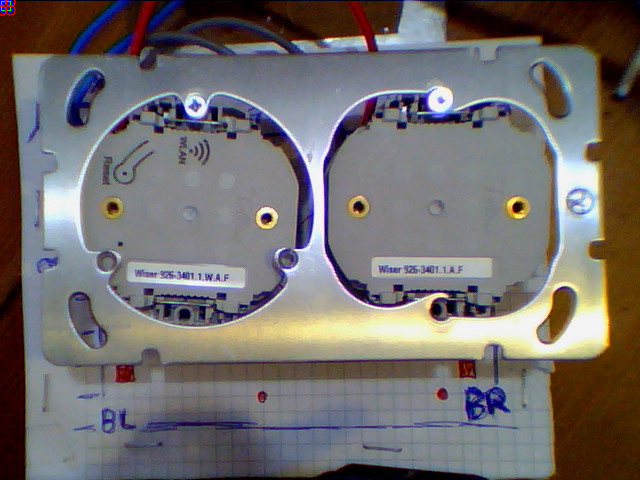
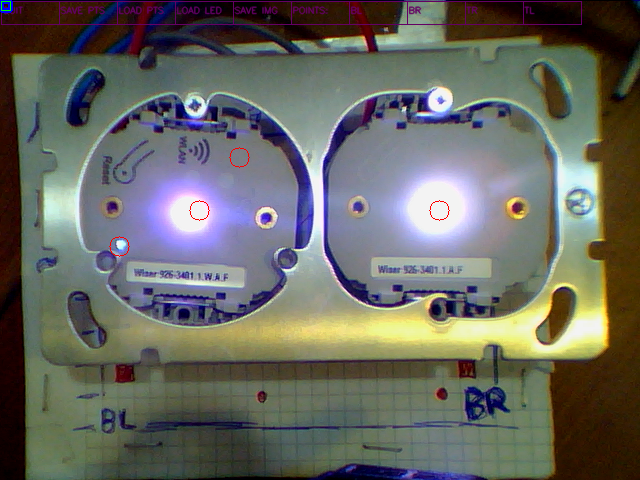
LED save Stack , make cockpit XLSM

diff --git a/PY_Samples/Cam/Get_Cam_Window_V4.py b/PY_Samples/Cam/Get_Cam_Window_V4.py
@@ -90,6 +90,8 @@ def StackImages(img,LED_CAMERA):
             LED_stack=np.vstack([crop0, crop_grey])
         else:
             LED_stack=np.vstack([LED_stack, crop_grey])
+
+     cv2.imwrite('LED_Stack.png',LED_stack)
      cv2.imshow('LED 1', LED_stack)
 
 #==============================================================================
